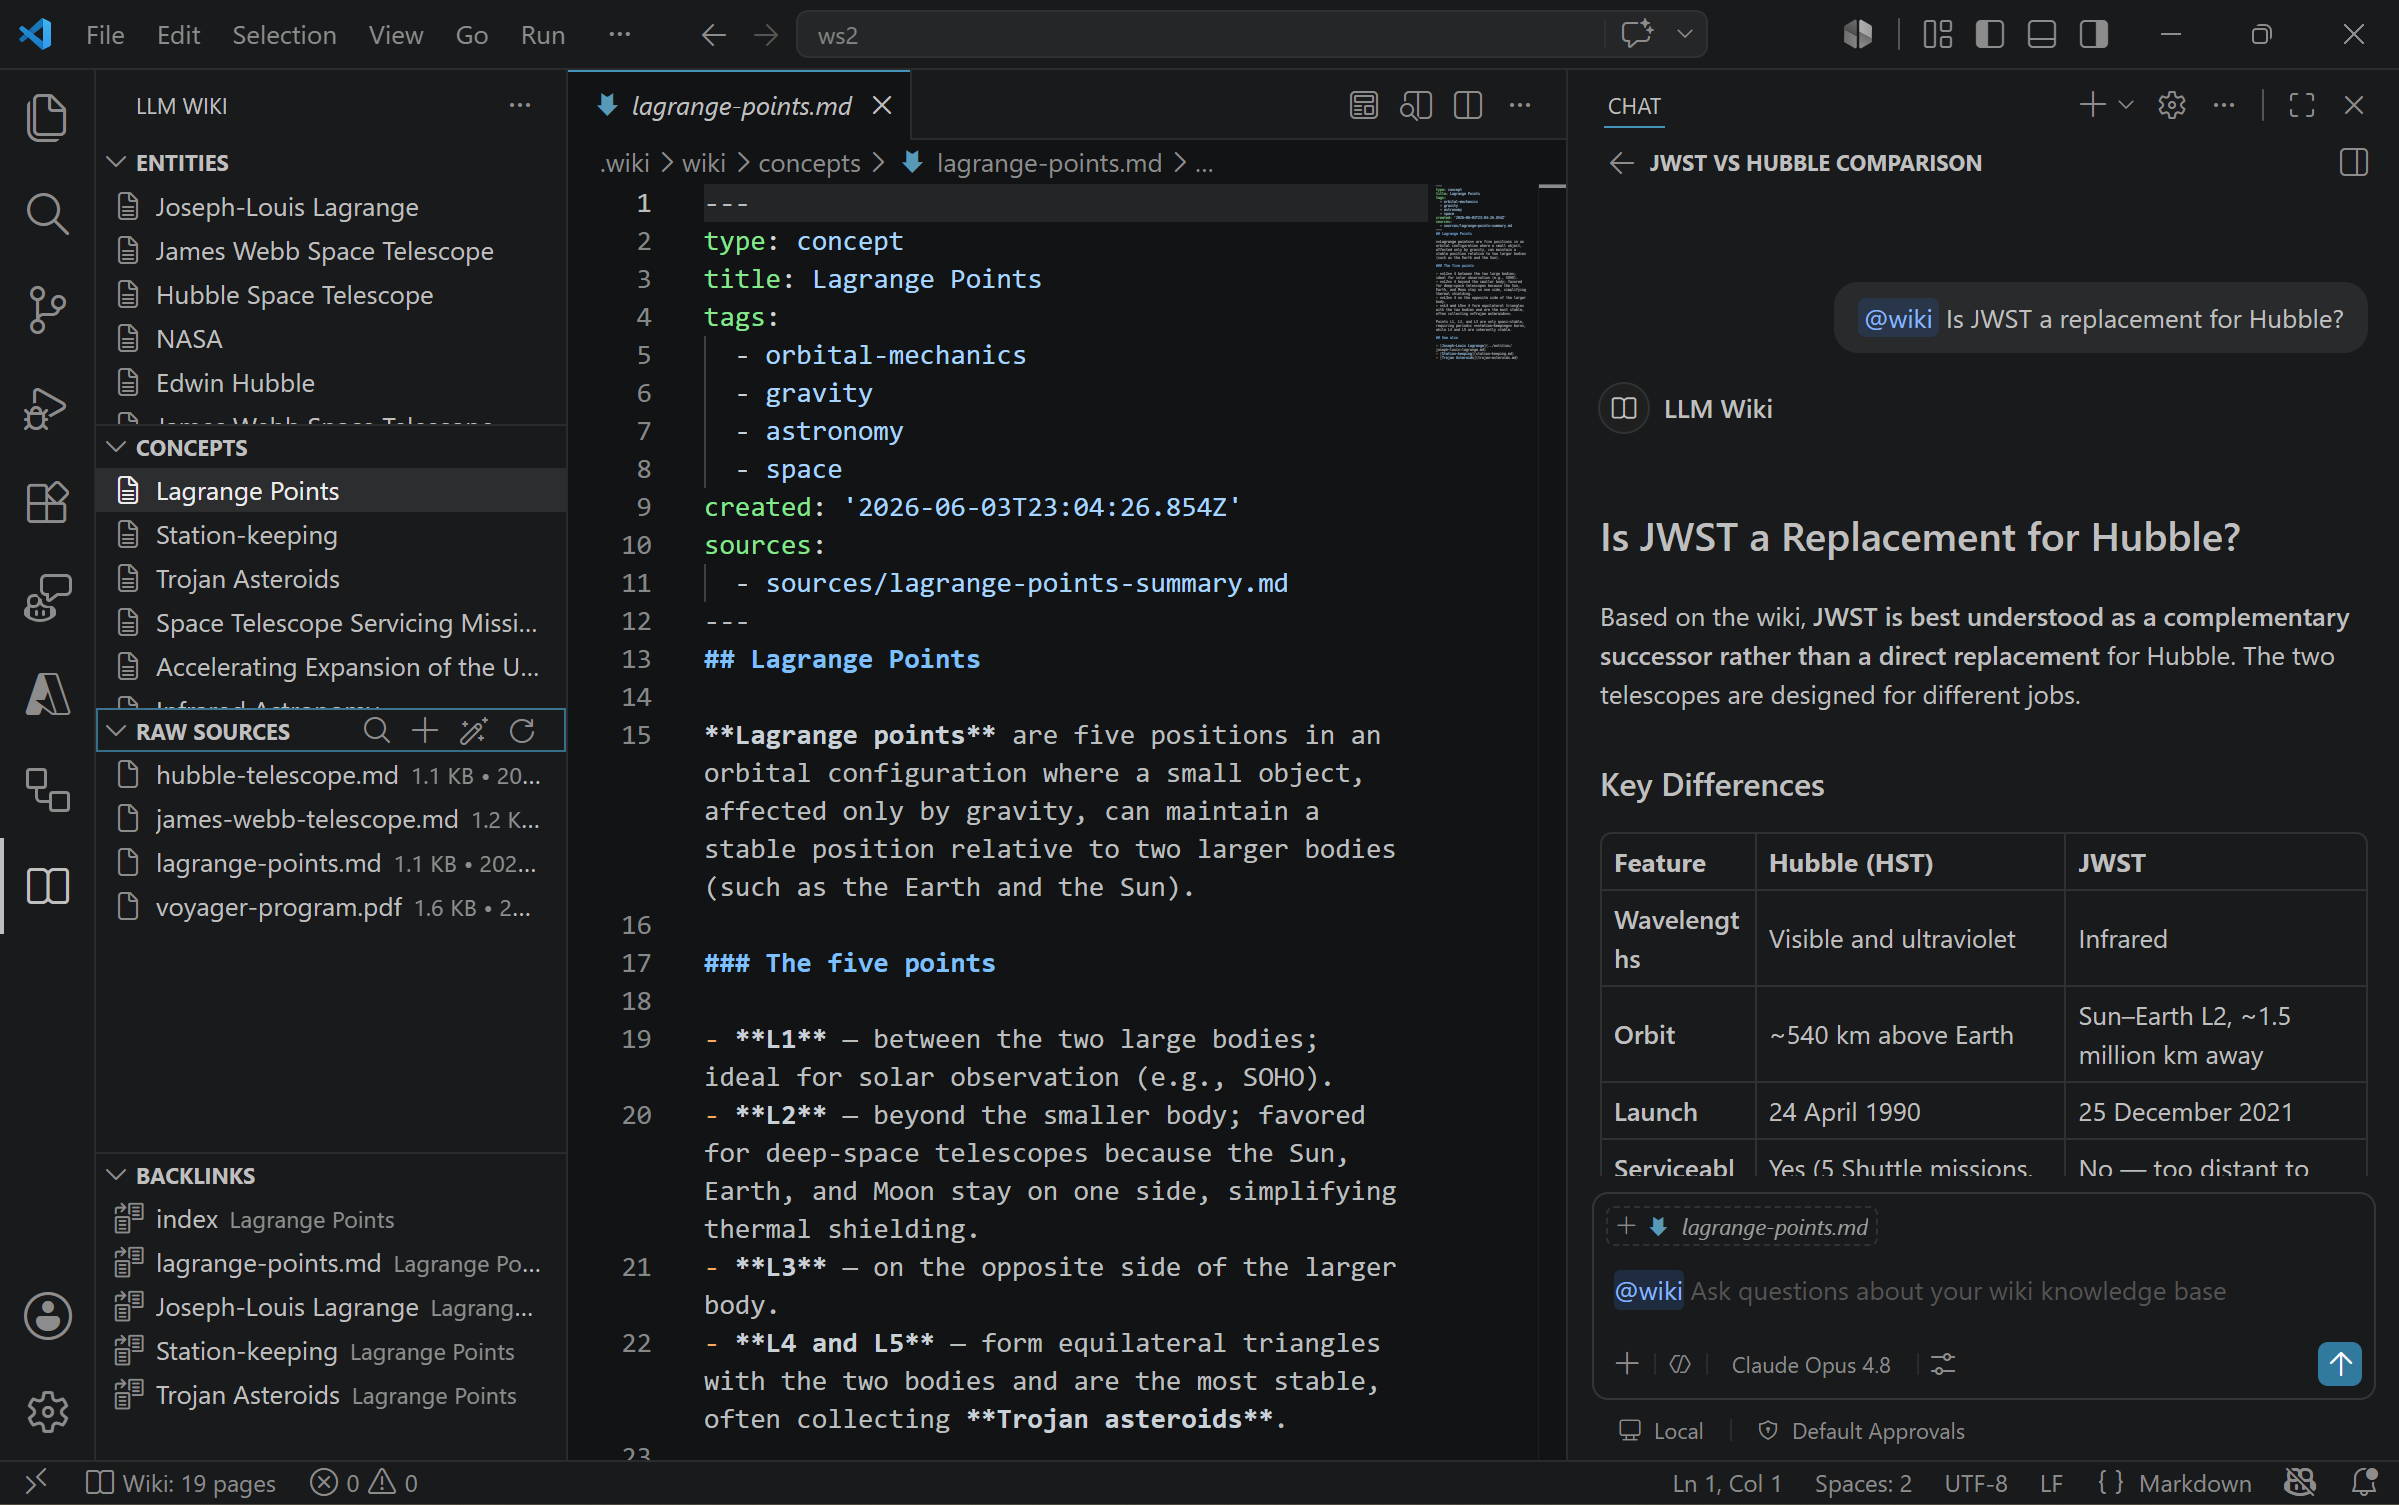
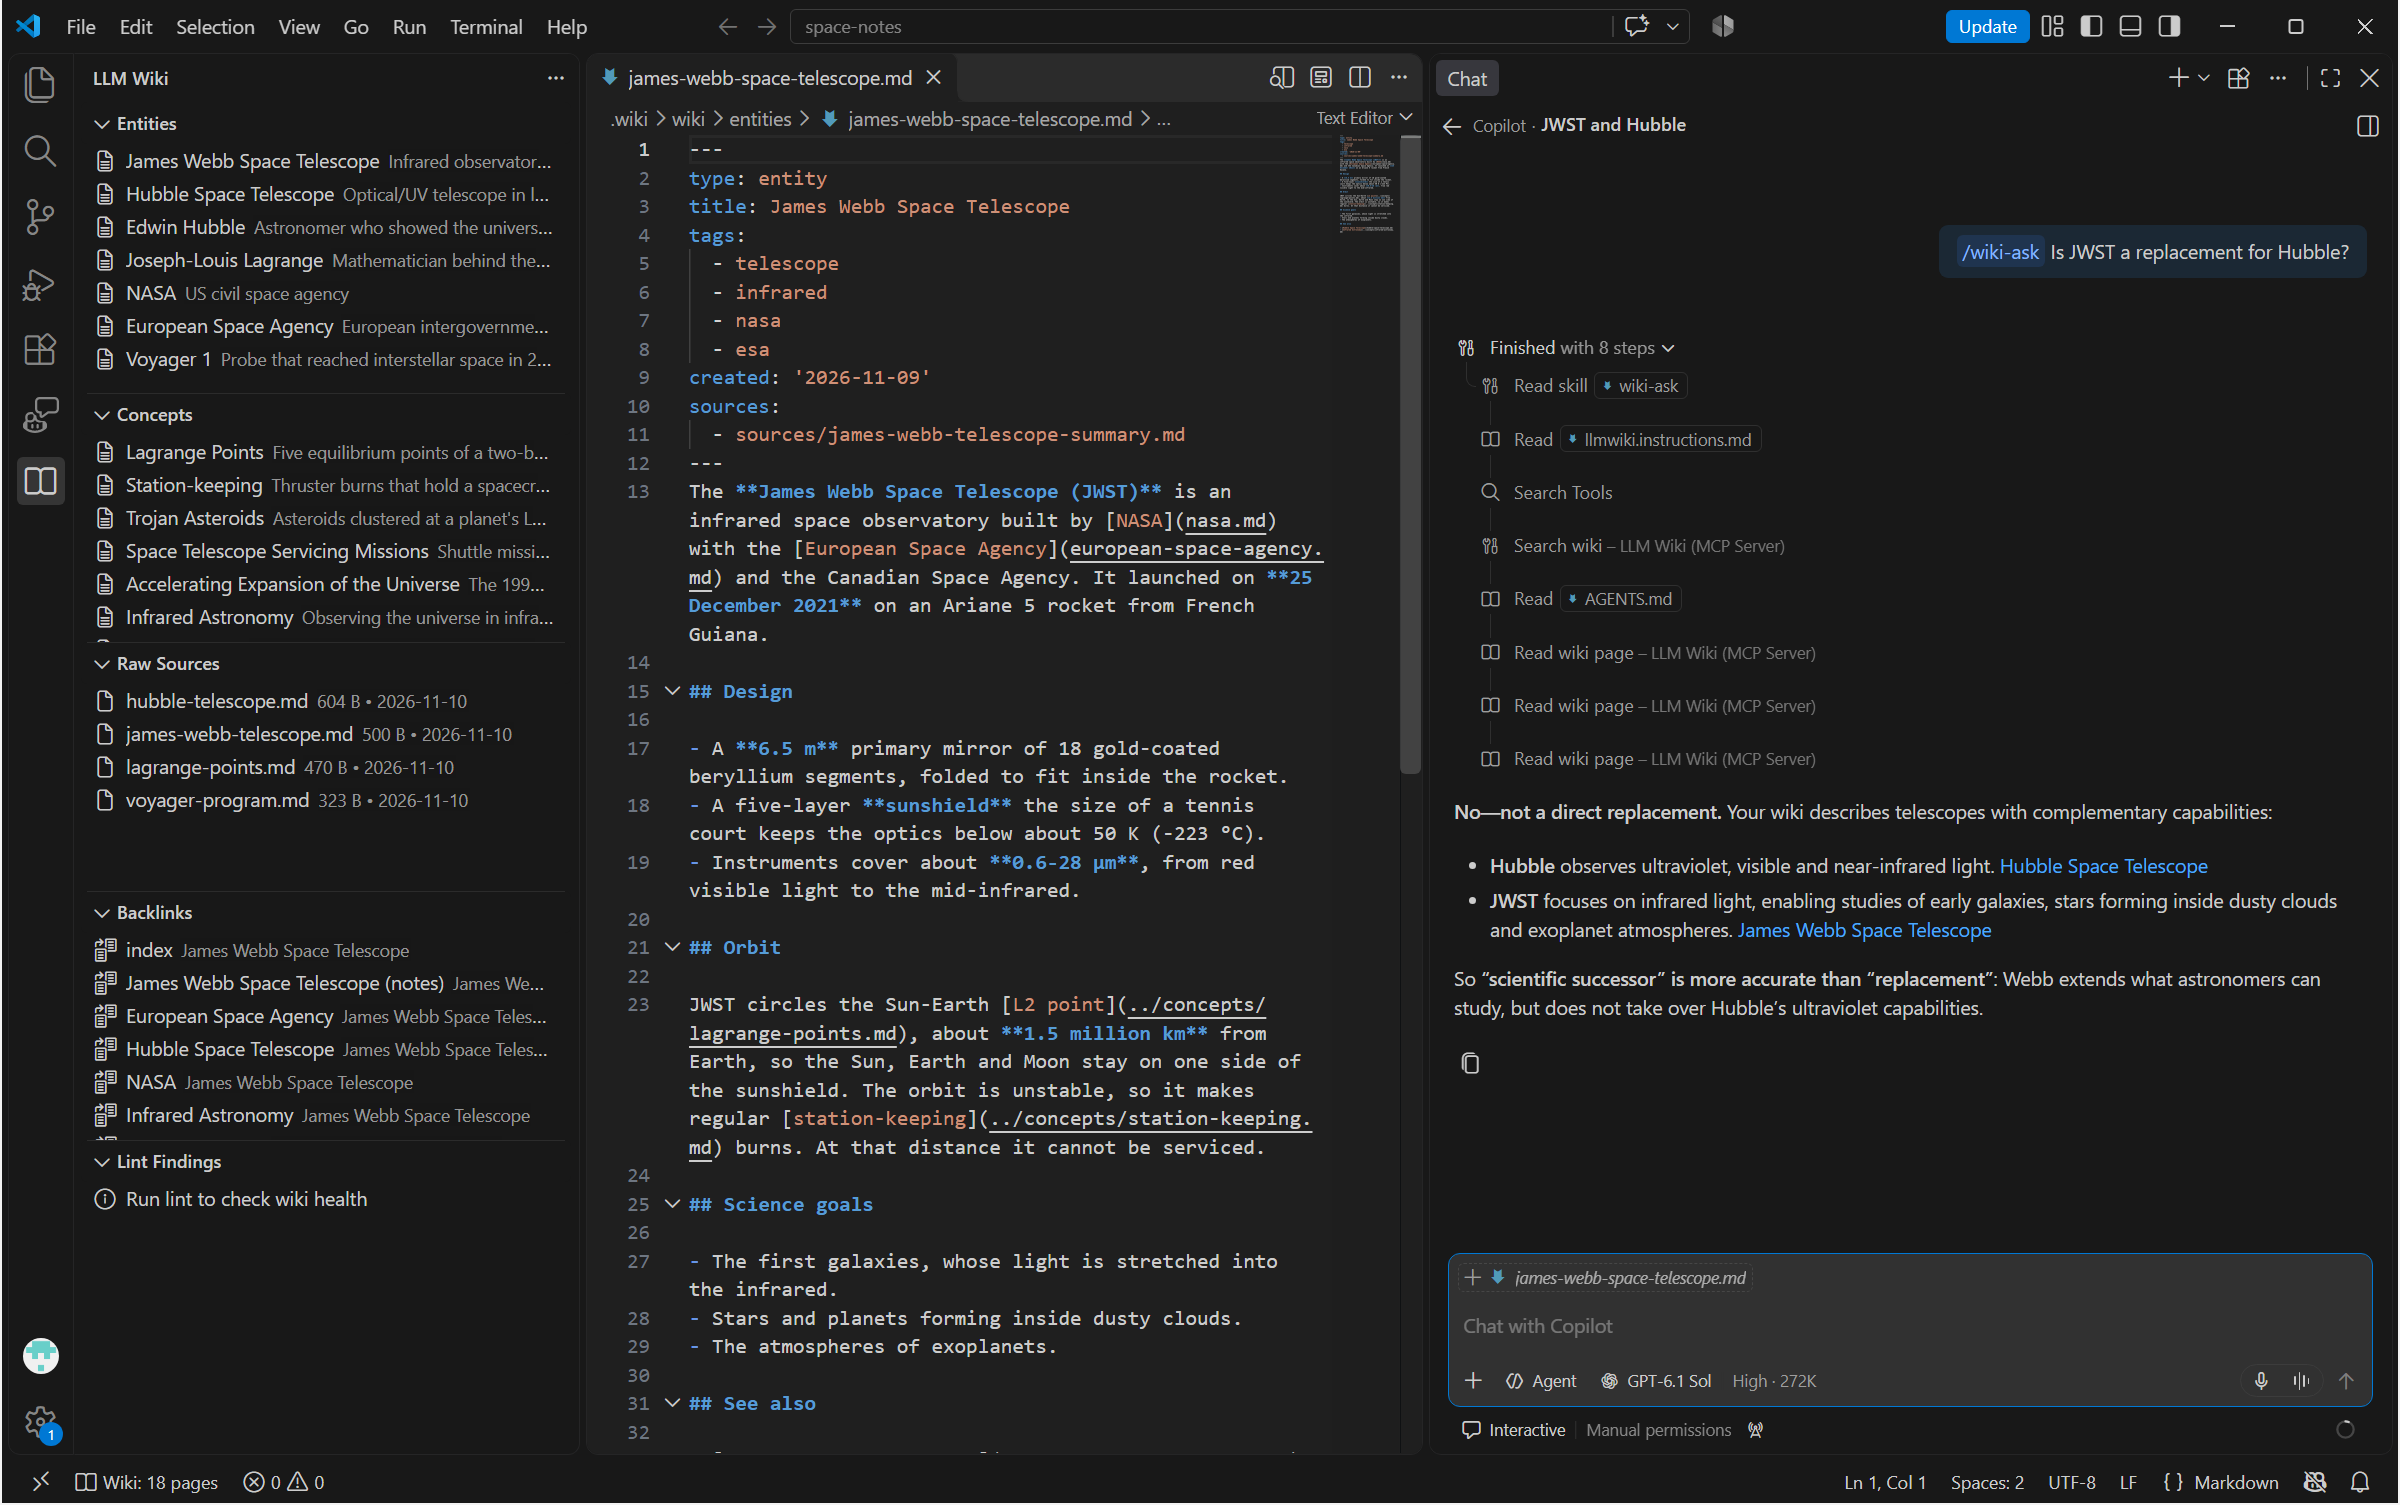
docs: refresh README screenshot for skills and MCP tools
Replace the old @wiki chat participant screenshot with one from VS Code 1.144. It shows the /wiki-ask skill answering through the LLM Wiki MCP tools in Copilot Chat, and the sidebar's new Lint Findings view.

diff --git a/README.md b/README.md
@@ -13,9 +13,9 @@ You never write the wiki yourself. You curate sources, ask questions, and think.
 
 ## Example interface
 
-![LLM Wiki running in VS Code — tree views for entities, concepts, raw sources, and backlinks on the left, a wiki page in the editor, and Copilot Chat answering a cross-document question from the wiki on the right.](docs/images/interface.png)
+![LLM Wiki running in VS Code — the LLM Wiki sidebar with Entities, Concepts, Raw Sources, Backlinks, and Lint Findings views on the left, a wiki page in the editor, and Copilot Chat on the right answering "/wiki-ask Is JWST a replacement for Hubble?" by calling the LLM Wiki MCP tools and citing the wiki pages it used.](docs/images/interface.png)
 
-The LLM Wiki sidebar surfaces **Entities**, **Concepts**, **Raw Sources**, **Backlinks**, and **Lint Findings** tree views. The generated wiki pages open in the editor, and Copilot Chat answers questions that synthesize across multiple sources through the LLM Wiki MCP tools and skills.
+The LLM Wiki sidebar surfaces **Entities**, **Concepts**, **Raw Sources**, **Backlinks**, and **Lint Findings** tree views, and the generated wiki pages open in the editor. In Copilot Chat, the `/wiki-ask` skill answers questions that synthesize across sources: it searches and reads the wiki through the LLM Wiki MCP tools (`wiki_query`, `wiki_read_page`) and links its answer to the pages it used.
 
 ## Architecture
 
